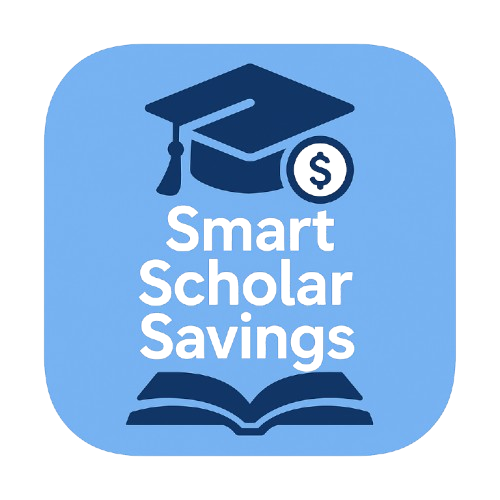
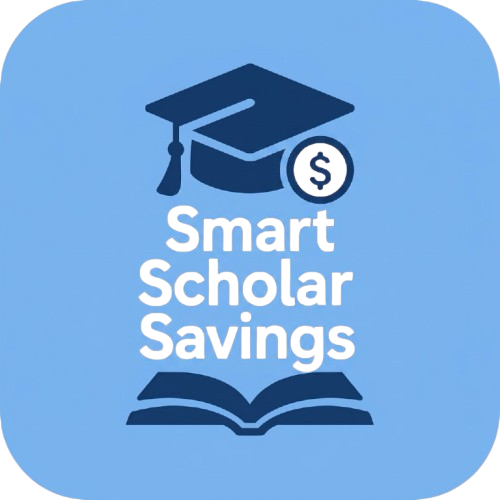
update projects

diff --git a/index.html b/index.html
@@ -80,7 +80,7 @@
 
                     <div class="tab-contents" id="education">
                         <ul>
-                            <li><span>August 2023 - April 2027</span><br>B.S. in Computer Science, Minor in Economics, University of Pittsburgh</li>
+                            <li><span>August 2023 - May 2027</span><br>B.S. in Computer Science, Minor in Economics, University of Pittsburgh</li>
                             <li><span>August 2019 - June 2023</span><br>B.A., Central High School, Philadelphia</li>
                         </ul>
                     </div>
@@ -136,6 +136,19 @@
             </div> -->
             <div class="work-list">
                 <div class="work">
+                    <img src="./static/images/eduexchange.png" alt="EduExchange App">
+                    <div class="layer">
+                        <span class="work-tag">WEB</span>
+                        <h3>EduExchange</h3>
+                        <p>A web app for connecting students with supplies/resources on campus in a safe and efficient manner.</p>
+                        <a href="https://github.com/britneylu/cs1530-Team15-EduExchange"
+                            target="_blank">
+                            <i class="fa-solid fa-arrow-up-right-from-square"></i>
+                        </a>
+                    </div>
+                </div>
+
+                <div class="work">
                     <img src="./static/images/job_app_tracker.png" alt="Job Application Tracker">
                     <div class="layer">
                         <span class="work-tag">WEB</span>
@@ -144,6 +157,31 @@
                             A responsive web app for tracking job applications — status, deadlines, and notes in one place.
                         </p>
                         <a href="https://github.com/britneylu/job-app-tracker" target="_blank">
+                            <i class="fa-solid fa-arrow-up-right-from-square"></i>
+                        </a>
+                    </div>
+                </div>
+
+                <div class="work">
+                    <img src="./static/images/macguffin.png" alt="The MacGuffin Hunter">
+                    <div class="layer">
+                        <span class="work-tag">GAME</span>
+                        <h3>The MacGuffin Hunter</h3>
+                        <p>MIPS assembly tile-based game — low-level logic, collision detection, and pixel rendering from scratch.</p>
+                        <a href="https://github.com/britneylu/The-MacGuffin-Hunter" target="_blank">
+                            <i class="fa-solid fa-arrow-up-right-from-square"></i>
+                        </a>
+                    </div>
+                </div>
+
+                <div class="work">
+                    <img src="./static/images/savings_app.png" alt="College Budgeting App">
+                    <div class="layer">
+                        <span class="work-tag">WEB</span>
+                        <h3>College Budgeting App</h3>
+                        <p>Budgeting app designed with Java + Figma for the She Innovates 2024 hackathon.</p>
+                        <a href="https://github.com/britneylu/She-Innovates-2024"
+                            target="_blank">
                             <i class="fa-solid fa-arrow-up-right-from-square"></i>
                         </a>
                     </div>
@@ -173,30 +211,6 @@
                     </div>
                 </div>
 
-                <div class="work">
-                    <img src="./static/images/savings_app.png" alt="College Budgeting App">
-                    <div class="layer">
-                        <span class="work-tag">WEB</span>
-                        <h3>College Budgeting App</h3>
-                        <p>Budgeting app designed with Java + Figma for the She Innovates 2024 hackathon.</p>
-                        <a href="https://github.com/britneylu/She-Innovates-2024"
-                            target="_blank">
-                            <i class="fa-solid fa-arrow-up-right-from-square"></i>
-                        </a>
-                    </div>
-                </div>
-
-                <div class="work">
-                    <img src="./static/images/macguffin.png" alt="The MacGuffin Hunter">
-                    <div class="layer">
-                        <span class="work-tag">GAME</span>
-                        <h3>The MacGuffin Hunter</h3>
-                        <p>MIPS assembly tile-based game — low-level logic, collision detection, and pixel rendering from scratch.</p>
-                        <a href="https://github.com/britneylu/The-MacGuffin-Hunter" target="_blank">
-                            <i class="fa-solid fa-arrow-up-right-from-square"></i>
-                        </a>
-                    </div>
-                </div>
             </div>
 
             <a href="https://github.com/britneylu" class="btn">See more</a>